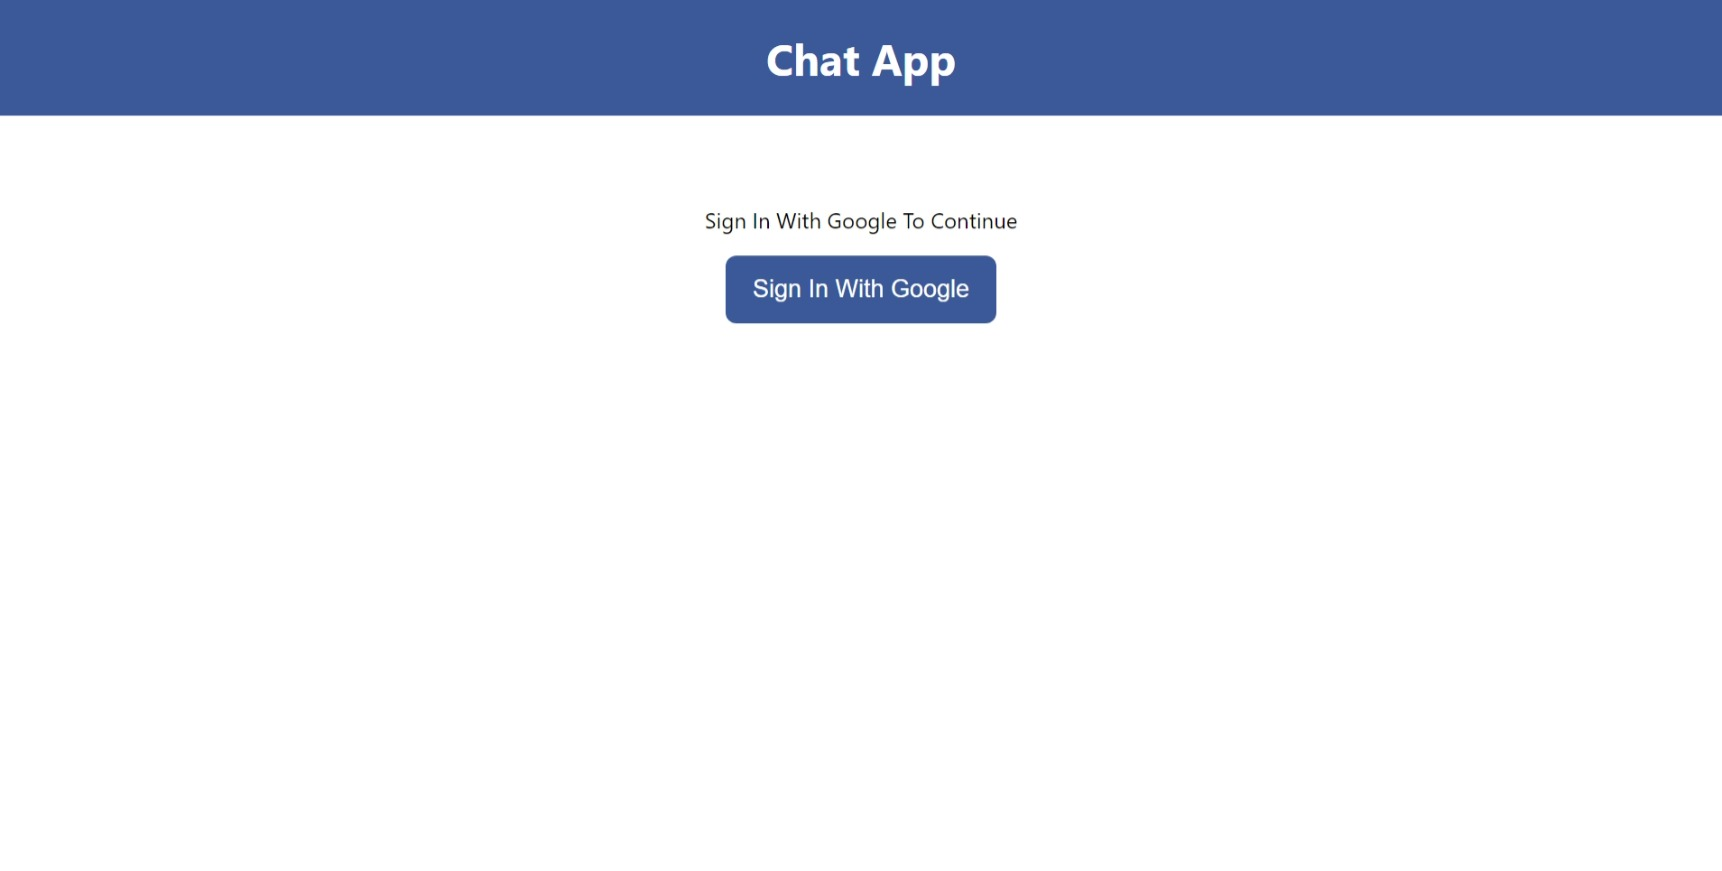
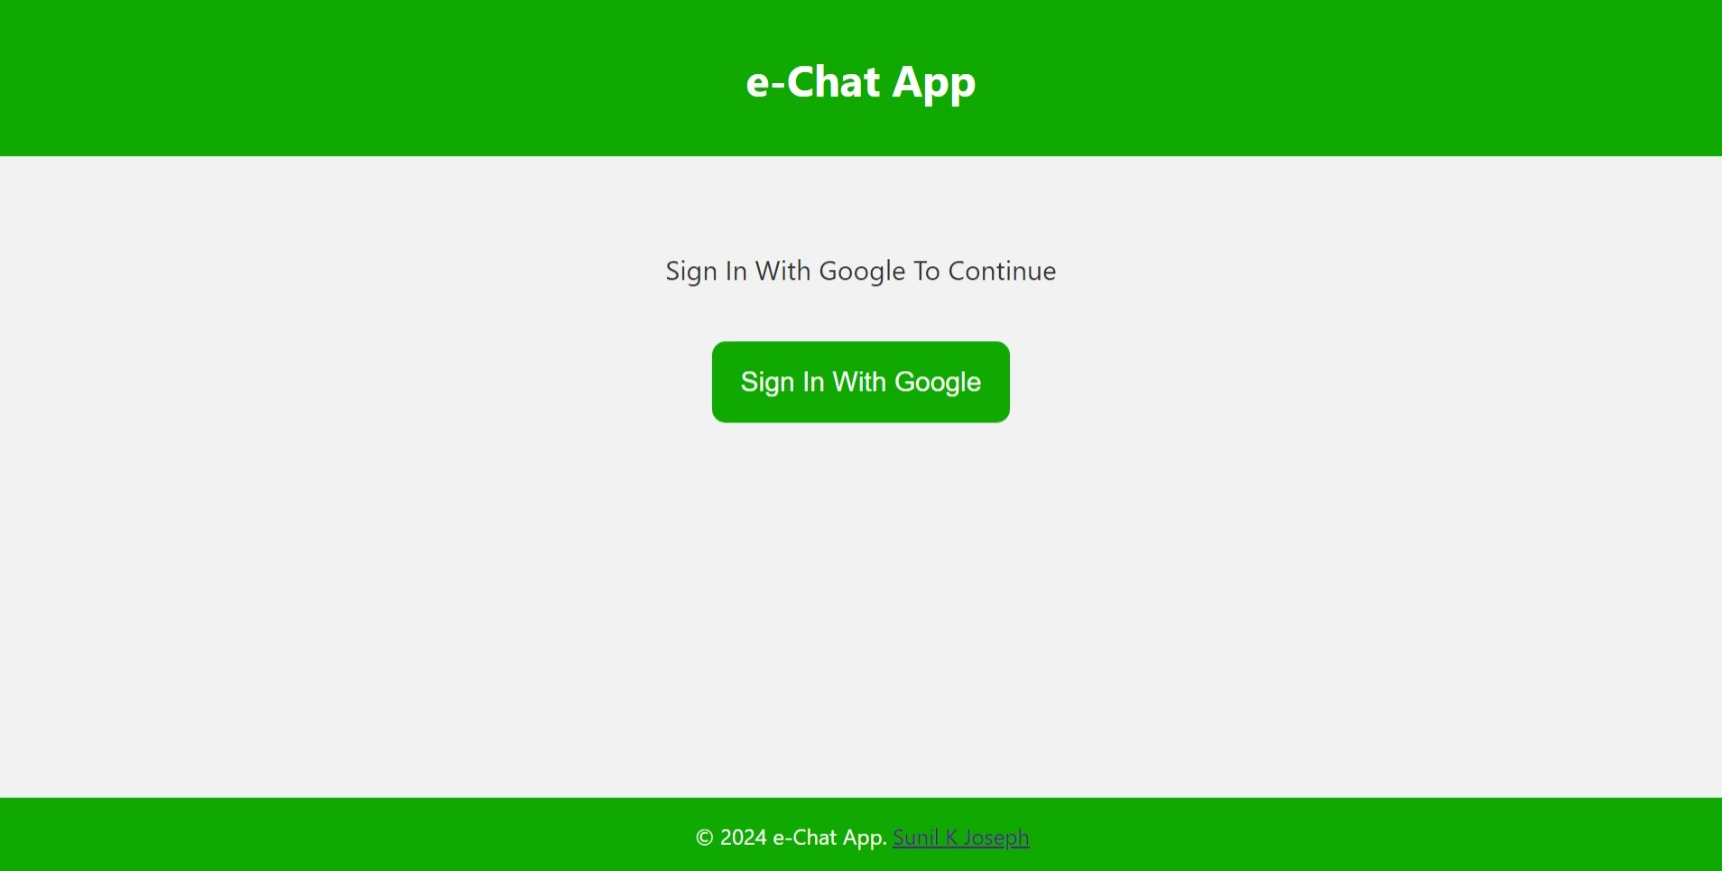
Updates

Changed region(s): [[0.0, 0.0, 1.0, 0.186], [0.0, 0.899, 1.0, 1.0], [0.3693, 0.248, 0.6156, 0.496]]

diff --git a/src/App.js b/src/App.js
@@ -3,6 +3,7 @@ import { Chat } from "./components/Chat";
 import { Auth } from "./components/Auth.js";
 import { AppWrapper } from "./components/AppWrapper";
 import Cookies from "universal-cookie";
+import Footer from './components/Footer';
 import "./App.css";
 
 const cookies = new Cookies();
@@ -12,6 +13,7 @@ function ChatApp() {
   const [isInChat, setIsInChat] = useState(null);
   const [room, setRoom] = useState("");
 
+
   if (!isAuth) {
     return (
       <AppWrapper
@@ -20,6 +22,7 @@ function ChatApp() {
         setIsInChat={setIsInChat}
       >
         <Auth setIsAuth={setIsAuth} />
+        <Footer />
       </AppWrapper>
     );
   }
@@ -41,6 +44,7 @@ function ChatApp() {
       ) : (
         <Chat room={room} />
       )}
+      <Footer />
     </AppWrapper>
   );
 }

diff --git a/src/App.css b/src/App.css
@@ -6,7 +6,7 @@ body {
 .App {
   display: flex;
   align-items: center;
-  justify-content: center; /* Center horizontally */
+  /* justify-content: center; Center horizontally */
   height: 100vh;
   flex-direction: column;
   font-family: 'Segoe UI', Tahoma, Geneva, Verdana, sans-serif;
@@ -65,3 +65,4 @@ body {
 .sign-out {
   margin-top: 30px; /* Adjust top margin for better alignment */
 }
+

diff --git a/src/components/Footer.js b/src/components/Footer.js
@@ -1,0 +1,14 @@
+// Footer.js
+
+import React from 'react';
+import '../styles/Footer.css';
+
+const Footer = () => {
+  return (
+    <div className="footer">
+      <p>&copy; 2024 e-Chat App. <a href='https://www.linkedin.com/in/sunil-k-joseph/'>Sunil K Joseph</a></p>
+    </div>
+  );
+}
+
+export default Footer;

diff --git a/src/styles/Footer.css b/src/styles/Footer.css
@@ -1,0 +1,13 @@
+/* Footer.css */
+
+.footer {
+    position: fixed;
+    bottom: 0;
+    left: 0;
+    width: 100%;
+    background-color: #0fa901;
+    color: white;
+    padding: 1px;
+    text-align: center;
+  }
+  
